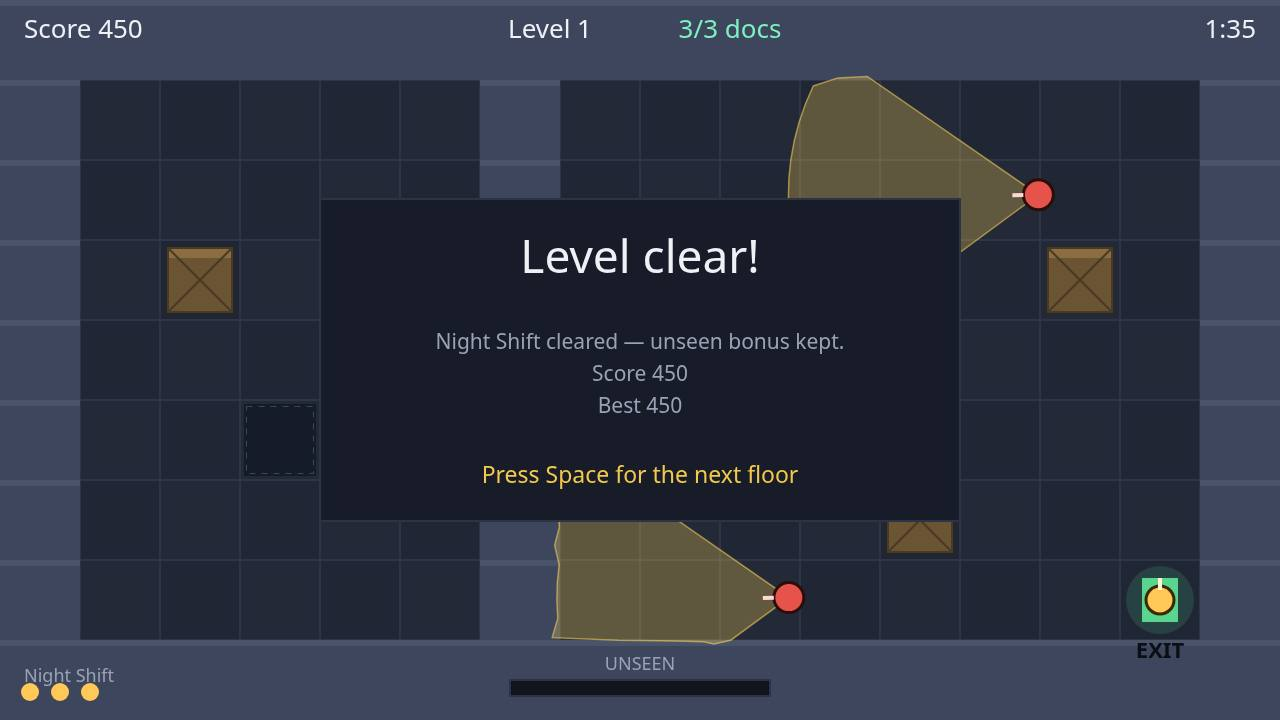
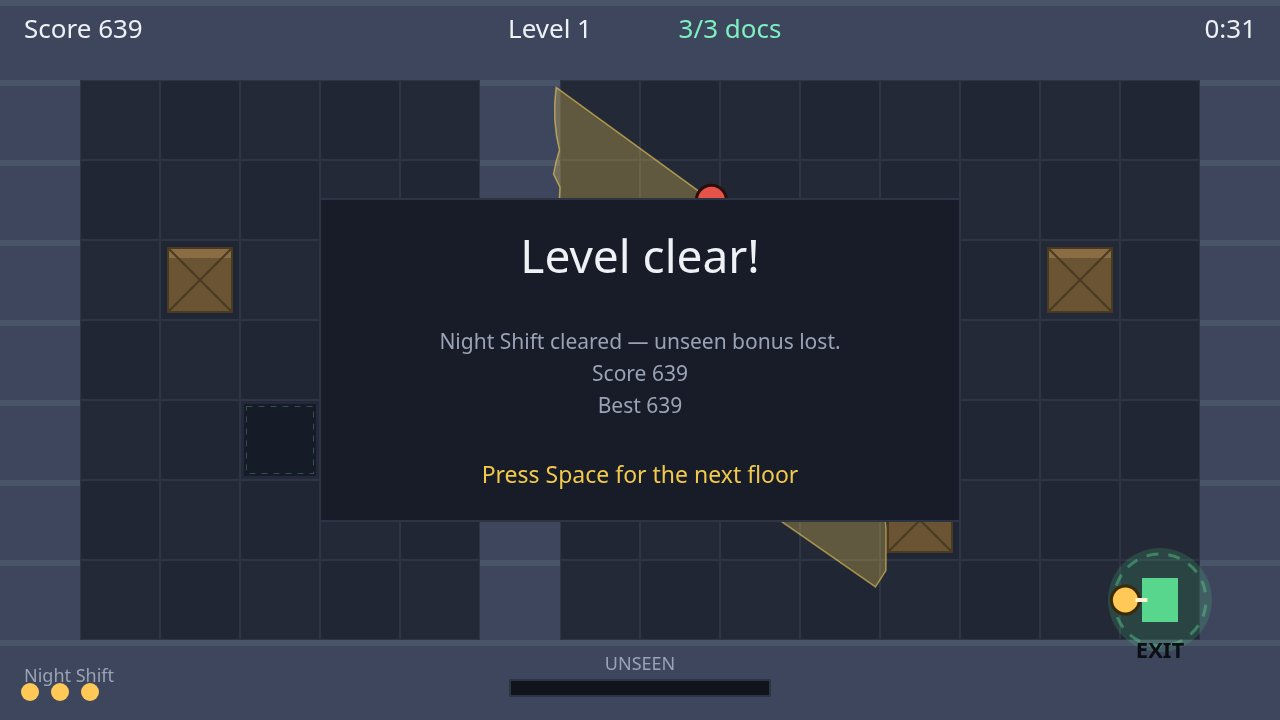
Shadow Courier v1: top-down stealth game + README

diff --git a/game/src/shots.js b/game/src/shots.js
@@ -1,20 +1,37 @@
 // The screenshot scenes behind ?shot=start|play|sneak|win. Each one plays
-// the real rules forward from a fresh world, steered by a simple autopilot:
-// head for the nearest document (then the exit), and step around any guard
-// cone that would spot the courier — waiting in cover when there is no safe
-// step. The same seed always gives the same frame.
-import { FIELD, PLAYER, STEP } from './config.js';
+// the real rules forward from a fresh world, steered by a pathfinding
+// autopilot: A* over the tile grid to the nearest document (then the exit),
+// with a heavy cost on tiles a guard's cone covers right now, so the route
+// bends around the cones instead of through them. When the next tile on the
+// route is lit, the courier waits in cover for the cone to pass — and dashes
+// through if it waits too long, since a brief sighting only fills part of
+// the detection meter. A chasing guard makes the courier flee to the nearest
+// unwatched tile instead. The same seed always gives the same frame.
+import { COLS, FIELD, PLAYER, ROWS, STEP, TILE } from './config.js';
 import { EVENT_CAUGHT, EVENT_LEVEL, EVENT_WIN } from './world.js';
-import { guardCanSee } from './guards.js';
+import { STATE_CHASE, guardCanSee } from './guards.js';
 import { circleHitsWall } from './physics.js';
+import { tileAt, tileBlocks, tileCentre, tileIsShadow } from './levels.js';
 import { SCREEN_LEVEL, SCREEN_PLAY, SCREEN_TITLE } from './render.js';
 
 const START_SECONDS = 5;
 const PLAY_SECONDS = 24;
 const WIN_LIMIT_SECONDS = 300;
+/** Replan the route at most this often; cones move, so a stale route lies. */
+const REPLAN_STEPS = 30;
+/** How long to wait for a lit tile to clear before dashing through. */
+const MAX_WAIT_STEPS = 240;
 const DIRECTIONS = [
   [1, 0], [1, 1], [0, 1], [-1, 1], [-1, 0], [-1, -1], [0, -1], [1, -1], [0, 0],
 ];
+
+/** True when any guard stands within `dist` px of (x, y): close enough to catch. */
+function tooClose(state, x, y, dist = 90) {
+  for (const guard of state.guards) {
+    if (Math.hypot(guard.x - x, guard.y - y) < dist) return true;
+  }
+  return false;
+}
 
 /** Would standing at (x, y) be inside any guard's cone right now? */
 function pointIsWatched(state, x, y) {
@@ -24,8 +41,102 @@ function pointIsWatched(state, x, y) {
   return false;
 }
 
-/** The autopilot's next move: toward the target, never into a lit cone. */
-function autopilot(state, target) {
+function tileOf(x, y) {
+  return { col: Math.floor(x / TILE), row: Math.floor(y / TILE) };
+}
+
+function tileWalkable(level, col, row) {
+  return !tileBlocks(tileAt(level, col, row));
+}
+
+/**
+ * A* from the courier's tile to the target's tile, four-way, over open
+ * floor. A tile under a cone costs far more than a dark one, so the route
+ * bends around the guards' sight instead of crossing it; shadow tiles cost
+ * slightly less, so the route prefers the dark. Returns tile centres from
+ * the courier outward, or null when no route exists.
+ */
+function findPath(state, from, to) {
+  const level = state.level;
+  const start = tileOf(from.x, from.y);
+  const goal = tileOf(to.x, to.y);
+  if (start.col === goal.col && start.row === goal.row) return [tileCentre(goal.col, goal.row)];
+  const key = (col, row) => row * COLS + col;
+  const open = [{ col: start.col, row: start.row, g: 0, f: 0, parent: null }];
+  const best = new Map([[key(start.col, start.row), 0]]);
+  const closed = new Set();
+  const heuristic = (col, row) => Math.abs(col - goal.col) + Math.abs(row - goal.row);
+  while (open.length > 0) {
+    let bestIndex = 0;
+    for (let i = 1; i < open.length; i += 1) {
+      if (open[i].f < open[bestIndex].f) bestIndex = i;
+    }
+    const node = open.splice(bestIndex, 1)[0];
+    const nodeKey = key(node.col, node.row);
+    if (closed.has(nodeKey)) continue;
+    closed.add(nodeKey);
+    if (node.col === goal.col && node.row === goal.row) {
+      const path = [];
+      let current = node;
+      while (current) {
+        path.push(tileCentre(current.col, current.row));
+        current = current.parent;
+      }
+      return path.reverse();
+    }
+    for (const [dCol, dRow] of [[1, 0], [-1, 0], [0, 1], [0, -1]]) {
+      const col = node.col + dCol;
+      const row = node.row + dRow;
+      if (col < 0 || col >= COLS || row < 0 || row >= ROWS) continue;
+      if (!tileWalkable(level, col, row)) continue;
+      const centre = tileCentre(col, row);
+      let cost = 1;
+      if (pointIsWatched(state, centre.x, centre.y)) cost += 12;
+      if (tooClose(state, centre.x, centre.y)) cost += 12;
+      if (tileIsShadow(tileAt(level, col, row))) cost -= 0.3;
+      const g = node.g + cost;
+      const k = key(col, row);
+      if (best.has(k) && best.get(k) <= g) continue;
+      best.set(k, g);
+      open.push({ col, row, g, f: g + heuristic(col, row), parent: node });
+    }
+  }
+  return null;
+}
+
+/**
+ * The nearest tile the courier can stand on that no cone covers right now,
+ * at least `minGuardDist` px from every guard. Breadth-first, so the
+ * nearest such tile wins — and the search stops there: a farther "nicer"
+ * tile is no help when a guard is closing in.
+ */
+function nearestSafeTile(state, minGuardDist = 90) {
+  const level = state.level;
+  const start = tileOf(state.player.x, state.player.y);
+  const seen = new Set([start.row * COLS + start.col]);
+  const queue = [{ col: start.col, row: start.row }];
+  while (queue.length > 0) {
+    const tile = queue.shift();
+    const centre = tileCentre(tile.col, tile.row);
+    const nearGuard = state.guards.some(
+      (guard) => Math.hypot(guard.x - centre.x, guard.y - centre.y) < minGuardDist,
+    );
+    if (!nearGuard && !pointIsWatched(state, centre.x, centre.y)) return centre;
+    for (const [dCol, dRow] of [[1, 0], [-1, 0], [0, 1], [0, -1]]) {
+      const col = tile.col + dCol;
+      const row = tile.row + dRow;
+      const k = row * COLS + col;
+      if (col < 0 || col >= COLS || row < 0 || row >= ROWS || seen.has(k)) continue;
+      if (!tileWalkable(level, col, row)) continue;
+      seen.add(k);
+      queue.push({ col, row });
+    }
+  }
+  return null;
+}
+
+/** The old greedy step: toward the target, never into a lit cone. Only a fallback. */
+function greedyStep(state, target) {
   const player = state.player;
   let best = { x: 0, y: 0 };
   let bestScore = -Infinity;
@@ -67,6 +178,108 @@ function crouchNow(state) {
   return false;
 }
 
+function directionTo(player, point) {
+  const dx = point.x - player.x;
+  const dy = point.y - player.y;
+  const len = Math.hypot(dx, dy) || 1;
+  return { x: dx / len, y: dy / len };
+}
+
+/** One pilot: it keeps its route and its patience between steps. */
+function createPilot() {
+  let path = null;
+  let pathTarget = null;
+  let stepsSincePlan = 0;
+  let waitSteps = 0;
+
+  function plan(state, target) {
+    path = findPath(state, state.player, target);
+    pathTarget = { x: target.x, y: target.y };
+    stepsSincePlan = 0;
+    waitSteps = 0;
+  }
+
+  function step(state) {
+    const player = state.player;
+    const chasing = state.guards.some((guard) => guard.state === STATE_CHASE);
+
+    if (chasing) {
+      // Run, do not crouch: break line of sight on the nearest dark tile,
+      // well clear of every chasing guard — fleeing from one guard into
+      // another is how the courier gets caught.
+      const safe = nearestSafeTile(state, 160);
+      if (safe && Math.hypot(safe.x - player.x, safe.y - player.y) > 20) {
+        return { move: directionTo(player, safe), crouch: false };
+      }
+      let nearestChaser = null;
+      let nearestDist = Infinity;
+      for (const guard of state.guards) {
+        if (guard.state !== STATE_CHASE) continue;
+        const d = Math.hypot(guard.x - player.x, guard.y - player.y);
+        if (d < nearestDist) { nearestDist = d; nearestChaser = guard; }
+      }
+      if (nearestChaser) {
+        return { move: directionTo(nearestChaser, player), crouch: false };
+      }
+      return { move: { x: 0, y: 0 }, crouch: false };
+    }
+
+    const target = nearestTarget(state);
+    stepsSincePlan += 1;
+    if (!path || !pathTarget || Math.hypot(pathTarget.x - target.x, pathTarget.y - target.y) > 1
+      || path.length === 0 || stepsSincePlan > REPLAN_STEPS) {
+      plan(state, target);
+    }
+    if (!path) return { move: greedyStep(state, target), crouch: crouchNow(state) };
+
+    for (let attempt = 0; attempt < 2; attempt += 1) {
+      while (path.length > 0 && Math.hypot(path[0].x - player.x, path[0].y - player.y) < 18) {
+        path.shift();
+      }
+      if (path.length === 0) return { move: { x: 0, y: 0 }, crouch: false };
+      const next = path[0];
+      const watched = pointIsWatched(state, next.x, next.y);
+      const close = tooClose(state, next.x, next.y);
+      if (!watched && !close) {
+        waitSteps = 0;
+        // Seen right now: run at full speed out of the cone instead of
+        // crouching through it — a crouched courier barely outruns a guard.
+        const seen = pointIsWatched(state, player.x, player.y);
+        return { move: directionTo(player, next), crouch: seen ? false : crouchNow(state) };
+      }
+      // Exposed where we stand: pull back to the nearest dark tile first.
+      if (pointIsWatched(state, player.x, player.y) || tooClose(state, player.x, player.y)) {
+        const safe = nearestSafeTile(state);
+        if (safe && Math.hypot(safe.x - player.x, safe.y - player.y) > 20) {
+          return { move: directionTo(player, safe), crouch: crouchNow(state) };
+        }
+      }
+      if (close) {
+        // Never dash into a guard's body: wait in cover, replanning now and
+        // then so the route bends around where the guard actually is.
+        waitSteps += 1;
+        if (waitSteps >= MAX_WAIT_STEPS) {
+          plan(state, target);
+          waitSteps = 0;
+          continue;
+        }
+        return { move: { x: 0, y: 0 }, crouch: true };
+      }
+      // Cone only: wait a while, then dash through while detection is low.
+      // A brief sighting only fills part of the meter, and it drains in the dark.
+      waitSteps += 1;
+      if (waitSteps < MAX_WAIT_STEPS && state.detection < 0.6) {
+        return { move: { x: 0, y: 0 }, crouch: true };
+      }
+      waitSteps = 0;
+      return { move: directionTo(player, next), crouch: false };
+    }
+    return { move: { x: 0, y: 0 }, crouch: true };
+  }
+
+  return { step };
+}
+
 /**
  * Set `world` to the named scene (start, play, sneak or win; any other name
  * is start) and return the screen to draw over it and the best score.
@@ -80,12 +293,14 @@ export function stageShot(name, world) {
   }
 
   world.reset();
+  const pilot = createPilot();
   if (name === 'sneak') {
     // Ten seconds of real sneaking, then freeze the tense moment: the
     // courier crouched behind the central wall while a guard's cone sweeps
     // the corridor just past him, detection half full.
     for (let i = 0; i < 10 / STEP; i += 1) {
-      const events = world.step(STEP, autopilot(state, nearestTarget(state)), crouchNow(state), false);
+      const move = pilot.step(state);
+      const events = world.step(STEP, move.move, move.crouch, false);
       if (events & EVENT_CAUGHT) break;
     }
     state.player.x = 360;
@@ -104,7 +319,8 @@ export function stageShot(name, world) {
   const limit = name === 'win' ? WIN_LIMIT_SECONDS : PLAY_SECONDS;
   let finished = 0;
   for (let i = 0; i < limit / STEP; i += 1) {
-    const events = world.step(STEP, autopilot(state, nearestTarget(state)), crouchNow(state), false);
+    const move = pilot.step(state);
+    const events = world.step(STEP, move.move, move.crouch, false);
     if (events & EVENT_CAUGHT) break;
     if (events & (EVENT_LEVEL | EVENT_WIN)) { finished = events; break; }
   }

diff --git a/game/src/render.js b/game/src/render.js
@@ -187,9 +187,22 @@ export function createRenderer(canvas) {
     context.globalAlpha = pulse;
     context.fillStyle = PALETTE.exitGlow;
     context.beginPath();
-    context.arc(exit.x, exit.y, 34, 0, Math.PI * 2);
+    context.arc(exit.x, exit.y, exit.open ? 52 : 34, 0, Math.PI * 2);
     context.fill();
     context.restore();
+    if (exit.open) {
+      // The open exit calls to the courier: a wide pulsing ring around the door.
+      context.save();
+      context.globalAlpha = 0.5 + 0.3 * Math.sin(state.time * 5);
+      context.strokeStyle = PALETTE.exit;
+      context.lineWidth = 3;
+      context.setLineDash([12, 10]);
+      context.lineDashOffset = -state.time * 24;
+      context.beginPath();
+      context.arc(exit.x, exit.y, 46, 0, Math.PI * 2);
+      context.stroke();
+      context.restore();
+    }
     context.fillStyle = exit.open ? PALETTE.exit : '#7d8aa0';
     context.fillRect(exit.x - 18, exit.y - 22, 36, 44);
     context.fillStyle = '#0b0e14';

diff --git a/game/src/levels.js b/game/src/levels.js
@@ -27,7 +27,7 @@ export const LEVELS = [
     ],
     guards: [
       { waypoints: [[8, 1], [13, 1], [13, 2], [8, 2]], speed: 55 },
-      { waypoints: [[12, 5], [12, 7], [7, 7], [7, 5]], speed: 60 },
+      { waypoints: [[12, 5], [12, 7], [9, 7], [7, 7], [7, 5]], speed: 60 },
     ],
   },
   {
